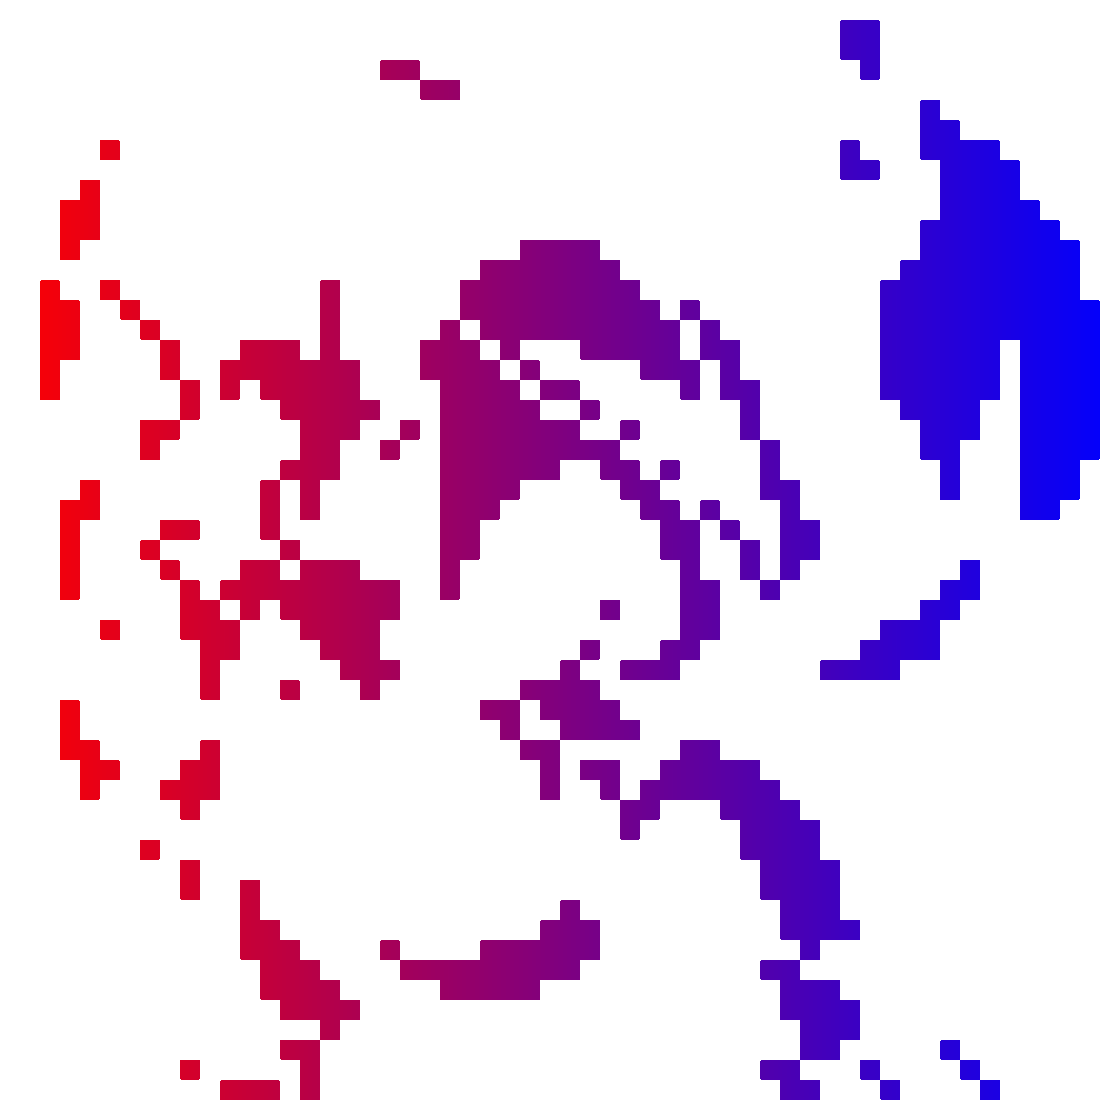
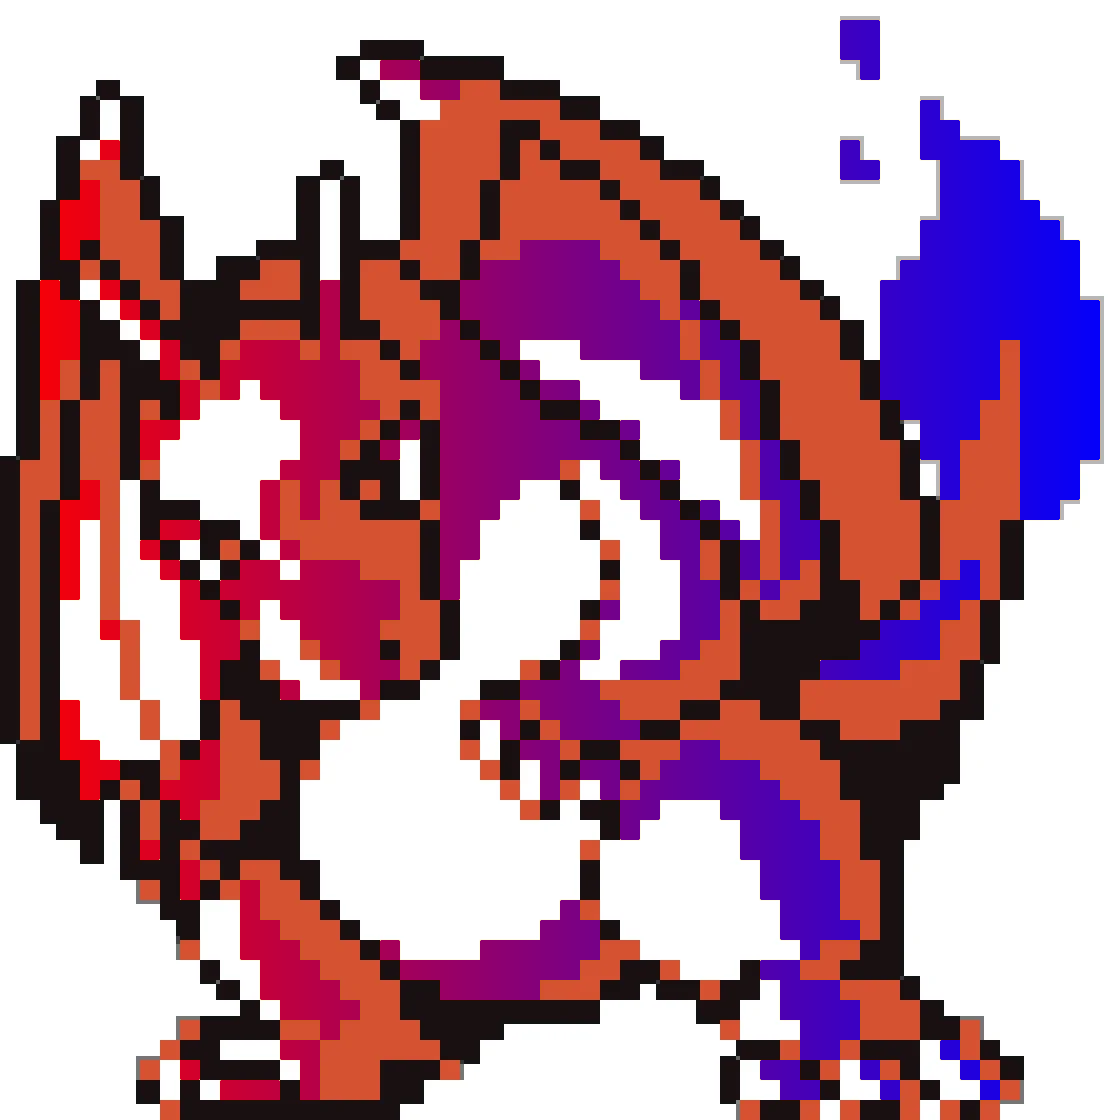
WORKS... MVP

diff --git a/gradient_injector.py b/gradient_injector.py
@@ -95,17 +95,12 @@ def prompted_single_change():
 
 
 def gradient_single_change(start_color, end_color, gradient_kw):
-    # Choose base image
     ip = "./examples/images/charizard.png"
-    # Create image prompt to allow choice, get prominent regions
     pixel_regions = get_prominent_regions(ip)
     color, polygon = list(pixel_regions.items())[1]
-    print("Color:", color)
+    print("Replacing color:",color)
     polygon = [tuple(p) for p in polygon]
     img = Image.open(ip).convert("RGB")
-    print("Dimensions:",(img.width, img.height),)
-    # from red to blue
-    img = Image.new("RGBA", (img.width, img.height), (0, 0, 0, 0))
     x = inject_gradient(img, polygon, start_color, end_color, gradient_kw)
     x.save("xx.png")
 
